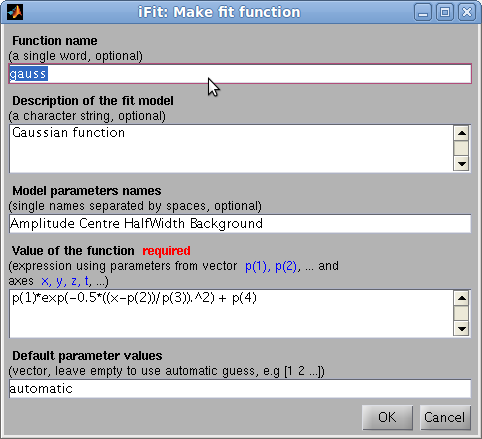
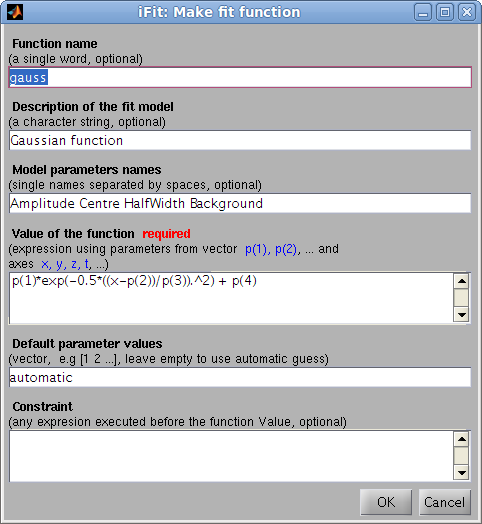
iFunc/Fit: fix a few bugs in the model builder, and update the Doc.

diff --git a/Docs/iFuncs.html b/Docs/iFuncs.html
@@ -3,6 +3,7 @@
 
 
 
+
   
   <meta http-equiv="content-type" content="text/html; charset=ISO-8859-1">
 
@@ -143,7 +144,7 @@ Each function/model can be used in the following ways (for instance model may be
 
 
 </h3>
-<pre style="margin-left: 40px;">&gt;&gt; <span style="color: rgb(51, 102, 255);">fits</span>(<span style="font-style: italic;">iData)</span></pre>
+<pre style="margin-left: 40px;">&gt;&gt; <span style="color: rgb(51, 102, 255);">fits</span>(<span style="font-style: italic;">iData);</span></pre>
 <h3><a class="mozTocH3" name="mozTocId210092"></a><span style="font-weight: bold;">Model builder: making a model easy<br>
 </span></h3>
 
@@ -151,10 +152,11 @@ Each function/model can be used in the following ways (for instance model may be
 The <span style="font-style: italic;">ifitmakefunc</span> tool enables to define a new fit function/model from a simple dialog, by entering its <a href="images/ifitmakefunc.png"><img title="ifitmakefunc" src="images/ifitmakefunc.png" alt="ifitmakefunc" style="border: 0px solid ; width: 150px; height: 137px;" align="right"></a>expression as a function of the parameter vector <span style="font-style: italic; font-weight: bold;">p</span> and the axes <span style="font-style: italic; font-weight: bold;">x,y,z</span>,...<br>
 
 <pre style="margin-left: 40px;">&gt;&gt; <span style="color: rgb(255, 0, 0);">h</span>=<span style="color: rgb(51, 102, 255);">ifitmakefunc;</span></pre>
-
 The only required argument is the expression, but you may as well&nbsp;
 enter a function name and description, parameter names and default
-values. When started without any parameters, the Gaussian function
+values, as well as a constraint to be evaluated before computing the
+function value. When started without any parameters, the Gaussian
+function
 settings are used.<br>
 
 <br>
@@ -168,18 +170,29 @@ A quick definition, without using the dialog, can be performed with the syntax:<
 <pre style="margin-left: 40px;">&gt;&gt; <span style="color: rgb(255, 0, 0);">h</span>=<span style="color: rgb(51, 102, 255);">ifitmakefunc<span style="color: rgb(0, 0, 0);">(<span style="color: rgb(204, 51, 204);">'p(1)*exp( (x-p(2))/p(3) )'</span>);</span></span><br>&gt;&gt; <span style="color: rgb(51, 102, 255);">fits</span>(a, <span style="color: rgb(255, 0, 0);">h</span><span style="color: rgb(204, 51, 204);"></span>);<br></pre>
 
 
-and, for a more detailed description:<br>
+where&nbsp; <span style="font-weight: bold; font-style: italic;">p</span> is the vector that holds parameters. Axes are<span style="font-weight: bold; font-style: italic;"> x,y,z,t</span>. <br>
+The full syntax for the model builder is:<br>
 
-<pre style="margin-left: 40px;">&gt;&gt; <span style="color: rgb(255, 0, 0);">h</span>=<span style="color: rgb(51, 102, 255);">ifitmakefunc</span><span style="color: rgb(51, 102, 255);"><span style="color: rgb(0, 0, 0);">('function_name', 'description', 'Parameter1 Parameter2 ...', ...<br>	<span style="color: rgb(204, 51, 204);">'expression'<span style="color: rgb(0, 0, 0);">, </span></span>[default parameter values]);<br></span></span><span style="color: rgb(51, 102, 255);"><span style="color: rgb(0, 0, 0);"></span></span></pre>
+<pre style="margin-left: 40px;">&gt;&gt; <span style="color: rgb(255, 0, 0);">h</span>=<span style="color: rgb(51, 102, 255);">ifitmakefunc</span><span style="color: rgb(51, 102, 255);"><span style="color: rgb(0, 0, 0);">('function_name', 'description', 'Parameter1 Parameter2 ...', ...<br>	<span style="color: rgb(204, 51, 204);">'expression'<span style="color: rgb(0, 0, 0);">, </span></span>[default parameter values], <span style="color: rgb(204, 51, 204);">'constraint'</span>);<br></span></span><span style="color: rgb(51, 102, 255);"><span style="color: rgb(0, 0, 0);"></span></span></pre>
 
 which is equivalent to:<br>
 
-<pre style="margin-left: 40px;">&gt;&gt; fun.function='function_name';			% function name<br>&gt;&gt; fun.Description='function description';		% function long description<br>&gt;&gt; fun.Parameters='Paramater1 Parameter2 ...';		% parameter names<br>&gt;&gt; fun.Guess=[0 1 2 ...] or 'automatic';		% parameter default values, or automatic mode<br>&gt;&gt; fun.Expression='expression using p and x,y,z,t...';	% value of the model<br>&gt;&gt; <span style="color: rgb(255, 0, 0);">h</span>=<span style="color: rgb(51, 102, 255);">ifitmakefunc</span><span style="color: rgb(51, 102, 255);"><span style="color: rgb(0, 0, 0);">(fun);<br>&gt;&gt; </span></span><span style="color: rgb(51, 102, 255);">fits</span>(a, <span style="color: rgb(255, 0, 0);">h</span><span style="color: rgb(204, 51, 204);"></span>);<span style="color: rgb(51, 102, 255);"><span style="color: rgb(0, 0, 0);"></span></span></pre>
-The resulting function has the ability to identify itself (provide
-detailed informations), compute automatic starting parameters, display
-itself, and evaluate its values of course.The resulting function embeds the automatic guess functionality (<span style="font-style: italic;">iFuncs_private_guess</span>),
-and thus can be stored anywehere in the Matlab search path, but should
-better be in the iFit/iFuncs directory so that it apperas in the <span style="font-style: italic;">fits(iData)</span> function list.<br>
+<pre style="margin-left: 40px;">&gt;&gt; fun.function=<span style="color: rgb(204, 51, 204);">'function_name'</span>;			<span style="font-style: italic;">% function name</span><br>&gt;&gt; fun.Description=<span style="color: rgb(204, 51, 204);">'function description'</span>;		<span style="font-style: italic;">% function long description</span><br style="font-style: italic;">&gt;&gt; fun.Parameters=<span style="color: rgb(204, 51, 204);">'Parameter1 Parameter2 ...'</span>;		<span style="font-style: italic;">% parameter names</span>. When empty, names are given according to the Expression analysis (when appropriate)<br>&gt;&gt; fun.Guess=[0 1 2 ...] or <span style="color: rgb(204, 51, 204);">'automatic'</span>;		<span style="font-style: italic;">% parameter default values (vector), or automatic mode</span><br>&gt;&gt; fun.Expression=<span style="color: rgb(204, 51, 204); font-style: italic;">'expression using p and x,y,z,t...'</span>;	<span style="font-style: italic;">% value of the model</span> (required). p is the vector that holds parameters. Axes are x,y,z,t.<br>&gt;&gt; fun.Constraint=<span style="color: rgb(204, 51, 204);">'evaluated before Expression'</span>;	<span style="font-style: italic;">% constraint evaluated prior to the model Expression</span><br>&gt;&gt; <span style="color: rgb(255, 0, 0);">h</span>=<span style="color: rgb(51, 102, 255);">ifitmakefunc</span><span style="color: rgb(51, 102, 255);"><span style="color: rgb(0, 0, 0);">(fun);<br>&gt;&gt; </span></span><span style="color: rgb(51, 102, 255);">fits</span>(a, <span style="color: rgb(255, 0, 0);">h</span><span style="color: rgb(204, 51, 204);"></span>);<span style="color: rgb(51, 102, 255);"><span style="color: rgb(0, 0, 0);"></span></span></pre>
+The resulting function has the ability to identify itself (<span style="color: rgb(204, 51, 204);">'identify'</span>, provide
+detailed informations), compute automatic starting parameters (<span style="color: rgb(204, 51, 204);">'guess'</span>), display
+itself (<span style="color: rgb(204, 51, 204);">'plot'</span>), and evaluate its value of course. The resulting function embeds the automatic guess functionality (<span style="font-style: italic;">iFuncs_private_guess</span>),
+and thus can be stored anywhere in the Matlab search path, but should
+better be in the iFit/iFuncs directory so that it appears in the <span style="font-style: italic;">fits(iData)</span> function list.<br>
+<br>
+To <span style="font-weight: bold;">assemble existing functions</span> into new ones, you may use <span style="font-style: italic;">e.g.</span>:<br>
+<pre style="margin-left: 40px;">&gt;&gt; <span style="color: rgb(255, 0, 0);">h</span>=<span style="color: rgb(51, 102, 255);">ifitmakefunc</span><span style="color: rgb(51, 102, 255);"><span style="color: rgb(0, 0, 0);">(<span style="color: rgb(204, 51, 204);">'gausslorz'</span>, <span style="color: rgb(204, 51, 204);">...<br>  'Gaussian+Lorentzian function'</span>, ...<br>  <span style="color: rgb(204, 51, 204);">'Amplitude1 Centre1 HalfWidth1 Background1 </span></span></span><span style="color: rgb(204, 51, 204);">Amplitude2 Centre2 HalfWidth2 Background2'</span>, ...<br>  <span style="color: rgb(204, 51, 204);">'<span style="color: rgb(51, 102, 255);">gauss</span>(p(1:4),x)+<span style="color: rgb(51, 102, 255);">lorz</span>(p(5:8),x)'</span>, ...<br>  <span style="color: rgb(204, 51, 204);">'automatic</span>', <span style="color: rgb(204, 51, 204);">'p(8)=0'</span>);<br><br>ifitmakefunc: Wrote function signal=gausslorz(p, x)<br>% Gaussian+Lorentzian function<br>% 8 parameter(s):  'Amplitude1' 'Centre1' 'HalfWidth1' 'Background1' 'Amplitude2' 'Centre2' 'HalfWidth2' 'Background2'<br>  p(8)=0;<br>  signal=gauss(p(1:4),x)+lorz(p(5:8),x);<br><br>Stored in: /home/farhi/gausslorz.m<br></pre>
+which creates a new function which is the sum of a Gaussian and a
+Lorentzian. The second redundant Lorentzian Background p(8) parameter
+is forced to 0 so that it does not correlate with the Gaussian
+Background p(4). The function has all the features listed above
+(plot/identify/guess).<br>
+<br>
+
 <pre style="margin-left: 40px;"><span style="color: rgb(51, 102, 255);"><span style="color: rgb(0, 0, 0);"></span></span></pre>
 
 <h3><a class="mozTocH3" name="mozTocId854762"></a><span style="font-weight: bold;">How to write manually a model function</span></h3>
@@ -191,7 +204,7 @@ proper execution. Store the new function in iFit/iFuncs so that it can access th
 <div style="text-align: center;">
 <div style="text-align: center;"><span style="font-style: italic;">E.
 Farhi - iFit/fit models - </span><span style="font-style: italic;">
-$Date: 2011-06-13 07:19:29 $ $Revision: 1.8 $
+$Date: 2011-06-29 09:08:23 $ $Revision: 1.9 $
 </span><span style="font-style: italic;"> </span>-
 back to <a href="index.html">Main
 iFit Page </a><a href="http://www.ill.eu/"><img title="ILL, Grenoble, France &lt;www.ill.eu&gt;" src="images/ILL-web-jpeg.jpg" alt="ILL, Grenoble, France &lt;www.ill.eu&gt;" style="border: 0px solid ; width: 53px; height: 50px;" align="right"></a>

diff --git a/Docs/Fit.html b/Docs/Fit.html
@@ -11,6 +11,7 @@
 
 
 
+
   <meta http-equiv="content-type" content="text/html; charset=ISO-8859-1">
   <title>iFit: fitting a model onto iData objects</title>
 </head><body>
@@ -73,7 +74,7 @@ is the model parameter set that matches best the data.<br>
 A number of model functions is available from the <a href="iFuncs.html">iFuncs</a>
 sub-library. The <span style="font-weight: bold;">list of all available fit functions</span> can be obtained from the command:<br>
 
-<pre style="margin-left: 40px;">&gt;&gt; <span style="color: rgb(51, 102, 255);">fits</span>(<span style="font-style: italic;">iData)</span></pre>
+<pre style="margin-left: 40px;">&gt;&gt; <span style="color: rgb(51, 102, 255);">fits</span>(<span style="font-style: italic;">iData);</span></pre>
 Refer
 to the section <a href="#mozTocId855522">below</a> in order to learn
 how to define new fit models with the <a href="iFuncs.html#mozTocId210092"><span style="font-weight: bold; font-style: italic;">ifitmakefunc</span></a> tool. You can get information about a model by
@@ -453,14 +454,22 @@ either a single expression, or a more detailed description. Refer to the  <a hre
 
 The resulting function has the ability to identify itself (<span style="color: rgb(204, 51, 204);">'identify'</span>, provide
 detailed informations), compute automatic starting parameters (<span style="color: rgb(204, 51, 204);">'guess'</span>), display
-itself (<span style="color: rgb(204, 51, 204);">'plot'</span>), and evaluate its values of course. It can be directly used with
+itself (<span style="color: rgb(204, 51, 204);">'plot'</span>), and evaluate its value of course. It can be directly used with
 <span style="font-weight: bold;">ieval</span> and <span style="font-weight: bold;">fits, </span>either with their name, or their function handle. <br>
 <br>
 It is even possible to directly call the fitting method and create the
 model function on the fly, which makes the fit much easier for simple
 functions that can be written as a single expression:<br>
 <pre style="margin-left: 40px;"><span style="color: rgb(51, 102, 255);"><span style="color: rgb(0, 0, 0);">&gt;&gt; <span style="color: rgb(51, 102, 255);">fits</span>(a, <span style="color: rgb(255, 0, 0);"></span></span></span><span style="color: rgb(51, 102, 255);"><span style="color: rgb(0, 0, 0);"><span style="color: rgb(204, 51, 204);">'p(1)*exp( (x-p(2))/p(3) )'</span></span></span><span style="color: rgb(51, 102, 255);"><span style="color: rgb(0, 0, 0);">);	<span style="font-style: italic;">% does the same as above, in a single command</span></span></span></pre>
-<br>
+To assemble existing functions into new ones, you may use e.g.:<br>
+
+<pre style="margin-left: 40px;">&gt;&gt; <span style="color: rgb(255, 0, 0);">h</span>=<span style="color: rgb(51, 102, 255);">ifitmakefunc</span><span style="color: rgb(51, 102, 255);"><span style="color: rgb(0, 0, 0);">(<span style="color: rgb(204, 51, 204);"></span></span></span><span style="color: rgb(204, 51, 204);">'','','','<span style="color: rgb(51, 102, 255);">gauss</span>(p(1:4),x)+<span style="color: rgb(51, 102, 255);">lorz</span>(p(5:8),x)'<span style="color: rgb(0, 0, 0);">,<span style="color: rgb(204, 51, 204);">''</span>,<span style="color: rgb(204, 51, 204);">'p(8)=0'</span>);</span></span><br></pre>
+
+which creates a new function which is the sum of a Gaussian and a
+Lorentzian. The second redundant Lorentzian Background p(8) parameter
+is forced to 0 so that it does not correlate with the Gaussian
+Background p(4). Other function information/parameter names (here given as empty) are guessed/defaulted.<br>
+
 
 
 <h3 style="text-align: center;"><a class="mozTocH3" name="mozTocId778987"></a>Specifying the optimization criteria</h3>
@@ -492,7 +501,7 @@ The Signal will be normalized to the Monitor prior to calling the criteria.<br>
 <hr style="width: 100%; height: 2px;">
 <div style="text-align: center;"><span style="font-style: italic;">E.
 Farhi - iFit/iData fitting - </span><span style="font-style: italic;">
-$Date: 2011-06-28 19:51:03 $ $Revision: 1.14 $
+$Date: 2011-06-29 09:08:23 $ $Revision: 1.15 $
 </span><span style="font-style: italic;"> </span>- back to <a href="index.html">Main iFit Page </a><a href="http://www.ill.eu/"><img title="ILL, Grenoble, France &lt;www.ill.eu&gt;" src="images/ILL-web-jpeg.jpg" alt="ILL, Grenoble, France &lt;www.ill.eu&gt;" style="border: 0px solid ; width: 53px; height: 50px;" align="right"></a>
 </div>
 </body></html>

diff --git a/iFuncs/ifitmakefunc.m b/iFuncs/ifitmakefunc.m
@@ -26,7 +26,7 @@ function fhandle = ifitmakefunc(fun, descr, pars, expr, defPars, constraint)
 %
 % output: fhandle: function handle to the new function, which is also stored locally
 % 
-% Version: $Revision: 1.4 $
+% Version: $Revision: 1.5 $
 % See also iData, gauss
 
 fhandle = [];
@@ -81,9 +81,9 @@ else
                   [ '{\bf Model parameters names}' NL '(single names separated by spaces, optional)' ], ...
                   [ '{\bf Value of the function {\color{red} required}}' NL '(expression using parameters from vector {\color{blue} p(1), p(2)}, ... and axes {\color{blue} x, y, z, t}, ...)' ], ...
                   [ '{\bf Default parameter values}' NL '(vector,  e.g [1 2 ...], leave empty to use automatic guess)' ], ...
-                  [ '{\bf Constraint}' NL '(any expresion executed before the function value, optional)' ]};
+                  [ '{\bf Constraint}' NL '(any expresion executed before the function Value, optional)' ]};
     dlg_title = 'iFit: Make fit function';
-    num_lines = [ 1 3 1 3 1 3]';
+    num_lines = [ 1 1 1 3 1 3]';
     defAns    = {fun, descr, pars, expr, defPars, constraint};
     options.Resize      = 'on';
     options.WindowStyle = 'normal';   
@@ -103,7 +103,10 @@ else
 end % else 
 
 % default function name, and possibly extract path for storage
-if isempty(fun), fun= tempname; end
+if isempty(fun)
+  fun = clock;
+  fun = sprintf('fun_%i', fix(fun(6)*1e4));
+end
 [ fun_path, fun ]   = fileparts(fun);
 fun                 = genvarname(fun);
 nb_pars             = 0;
@@ -124,12 +127,10 @@ if ~isempty(expr)
     token          = expr((nb_pars(index)+2):end);
     closing_parent = strfind(token, ')');
     if isempty(closing_parent), closing_parent=length(token)+1; end
-    
-    token(1:(closing_parent-1))
     try
-    s = eval(token(1:(closing_parent-1)));
+      s = eval(token(1:(closing_parent-1)));
     catch
-    s=[];
+      s=[];
     end
     if length(s) >= 1 ... 
       n=[n s]; 
@@ -145,6 +146,9 @@ if ~isempty(expr)
                    '  The number of parameters %d used in the expression' NL ...
                    '  may not be the same as the number of parameter names %d\n' ], ...
                    mfilename, fun, expr, nb_pars, length(strread(pars, '%s','delimiter',' ;,''{}')));
+      if length(strread(pars, '%s','delimiter',' ;,''{}')) < nb_pars
+        pars = []; % will guess parameter names
+      end
     end
   end
   
@@ -237,12 +241,12 @@ fclose(fid);
 % $PARS:  name of parameters, as 'a','b', ...
 % $EXPR:  expression of the function value, using 'p' vector as parameter values
 template = strrep(template, '$FUN',   fun);
-template = strrep(template, '$DESCR', [ descr ' [' fun ']' ]);
+template = strrep(template, '$DESCR', descr);
 template = strrep(template, '$PARS',  pars);
 if ~isempty(constraint)
-  template = strrep(template, '$EXPR',  [ constraint ';' NL 'signal = ' expr ]);
+  template = strrep(template, '$EXPR',  [ constraint ';' NL '  signal = ' expr ]);
 else
-  template = strrep(template, '$EXPR',  [ 'signal = ' expr ]);
+  template = strrep(template, '$EXPR',  [ '  signal = ' expr ]);
 end
 template = strrep(template, '$DIM',   num2str(dim));
 ax = '';
@@ -261,6 +265,7 @@ end
 % add the private functions
 % iFit/iFuncs/private/iFuncs_private_findpeaks.m
 % iFit/iFuncs/private/iFuncs_private_guess.m
+line = '% ==============================================================================';
 tmp = fullfile(fileparts(which(mfilename)), 'private', 'iFuncs_private_findpeaks.m');
 fid = fopen(tmp);
 tmp = fread(fid, Inf, 'uint8=>char')';
@@ -271,7 +276,7 @@ tmp = fullfile(fileparts(which(mfilename)), 'private', 'iFuncs_private_guess.m')
 fid = fopen(tmp);
 tmp = fread(fid, Inf, 'uint8=>char')';
 fclose(fid);
-template = [ template NL tmp ];
+template = [ template NL line NL tmp ];
 
 
 % create the function: write it
@@ -289,7 +294,7 @@ fprintf(1, [ '%s: Wrote function signal=%s(p, %s)\n'...
   mfilename, fun, ax, descr, nb_pars, ...
   pars);
 if ~isempty(constraint)
-  fprintf(1, '  %s;\n' ], constraint);
+  fprintf(1, '  %s;\n', constraint);
 end
 % display information and force to rehash/register the function
 fprintf(1, '  signal=%s;\n\nStored in: %s\n', expr, which([ fun '.m' ]));

diff --git a/@iData/fits.m b/@iData/fits.m
@@ -16,6 +16,8 @@ function [pars_out,criteria,message,output] = fits(a, model, pars, options, cons
 %     uses a specific optimizer and its default options.
 %  [optimizers,functions] = fits(iData)
 %     returns the list of all available optimizers and fit functions.
+%  fits(iData)
+%     displays the list of all available optimizers and fit functions.
 %  You may create new fit functions with the 'ifitmakefunc' tool.
 %
 % input:  a: object or array (iData)
@@ -67,7 +69,7 @@ function [pars_out,criteria,message,output] = fits(a, model, pars, options, cons
 %         o=fminimfil('defaults'); o.OutputFcn='fminplot'; 
 %         [p,c,m,o]=fits(a,'gauss',[1 2 3 4],o); b=o.modelValue
 %
-% Version: $Revision: 1.26 $
+% Version: $Revision: 1.27 $
 % See also iData, fminsearch, optimset, optimget, ifitmakefunc
 
 % private functions: eval_criteria, least_square
@@ -78,10 +80,12 @@ if nargin == 1
     % return the list of all available optimizers and fit functions
     output = {};
     pars_out   = {};
-    fprintf(1, '\n%s\n', version(iData));
-    
-    fprintf(1, '      OPTIMIZER DESCRIPTION [%s]\n', 'iFit/iOptim');
-    fprintf(1, '-----------------------------------------------------------------\n'); 
+    if nargout == 0
+      fprintf(1, '\n%s\n', version(iData));
+      
+      fprintf(1, '      OPTIMIZER DESCRIPTION [%s]\n', 'iFit/iOptim');
+      fprintf(1, '-----------------------------------------------------------------\n'); 
+    end
     d = dir([ fileparts(which(mfilename)) filesep '..' filesep 'iOptim' ]);
     for index=1:length(d)
       this = d(index);
@@ -91,13 +95,17 @@ if nargin == 1
         if isstruct(options)
           output{end+1} = options;
           pars_out{end+1}   = method;
-          fprintf(1, '%15s %s\n', options.optimizer, options.algorithm);
+          if nargout == 0
+            fprintf(1, '%15s %s\n', options.optimizer, options.algorithm);
+          end
         end
       end
     end % for
-    fprintf(1, '\n');
-    fprintf(1, '       FUNCTION DESCRIPTION [%s]\n', 'iFit/iFuncs');
-    fprintf(1, '-----------------------------------------------------------------\n'); 
+    if nargout == 0
+      fprintf(1, '\n');
+      fprintf(1, '       FUNCTION DESCRIPTION [%s]\n', 'iFit/iFuncs');
+      fprintf(1, '-----------------------------------------------------------------\n'); 
+    end
     d = dir([ fileparts(which(mfilename)) filesep '..' filesep 'iFuncs' ]);
     criteria = {}; 
     for index=1:length(d)
@@ -107,11 +115,36 @@ if nargin == 1
         options = feval(method,'identify');
         if isstruct(options)
           criteria{end+1}   = method;
-          fprintf(1, '%15s %s\n', method, options.Name);
+          if nargout == 0
+            fprintf(1, '%15s %s\n', method, options.Name);
+          end
         end
       end
     end % for
-    fprintf(1, '\n');
+    % local (pwd) functions
+    
+    message = '';
+    d = dir(pwd);
+    for index=1:length(d)
+      this = d(index);
+      try
+        [dummy, method] = fileparts(this.name);
+        options = feval(method,'identify');
+        if isstruct(options)
+          criteria{end+1}   = method;
+          if isempty(message)
+            fprintf(1, '\nLocal functions in: %s\n', pwd);
+            message = ' ';
+          end
+          if nargout == 0
+            fprintf(1, '%15s %s\n', method, options.Name);
+          end
+        end
+      end
+    end % for
+    if nargout == 0
+      fprintf(1, '\n');
+    end
     message = 'Optimizers and fit functions list'; 
     return
   end

diff --git a/iFuncs/gauss.m b/iFuncs/gauss.m
@@ -13,7 +13,7 @@ function y=gauss(p, x, y)
 % output: y: model value or information structure (guess, identify)
 % ex:     y=gauss([1 0 1 1], -10:10); or y=gauss('identify') or p=gauss('guess',x,y);
 %
-% Version: $Revision: 1.9 $
+% Version: $Revision: 1.10 $
 % See also iData, ifitmakefunc
 
 % 1D function template:
@@ -54,7 +54,7 @@ function y=gauss(p, x, y)
     elseif y.Dimension == 2
       surf(y.Axes{1}, y.Axes{2}, y.Values);
     end
-    title(mfilename)
+    title(mfilename);
   elseif nargin == 0
     y = feval(mfilename, [], linspace(-2,2, 100));
   else
